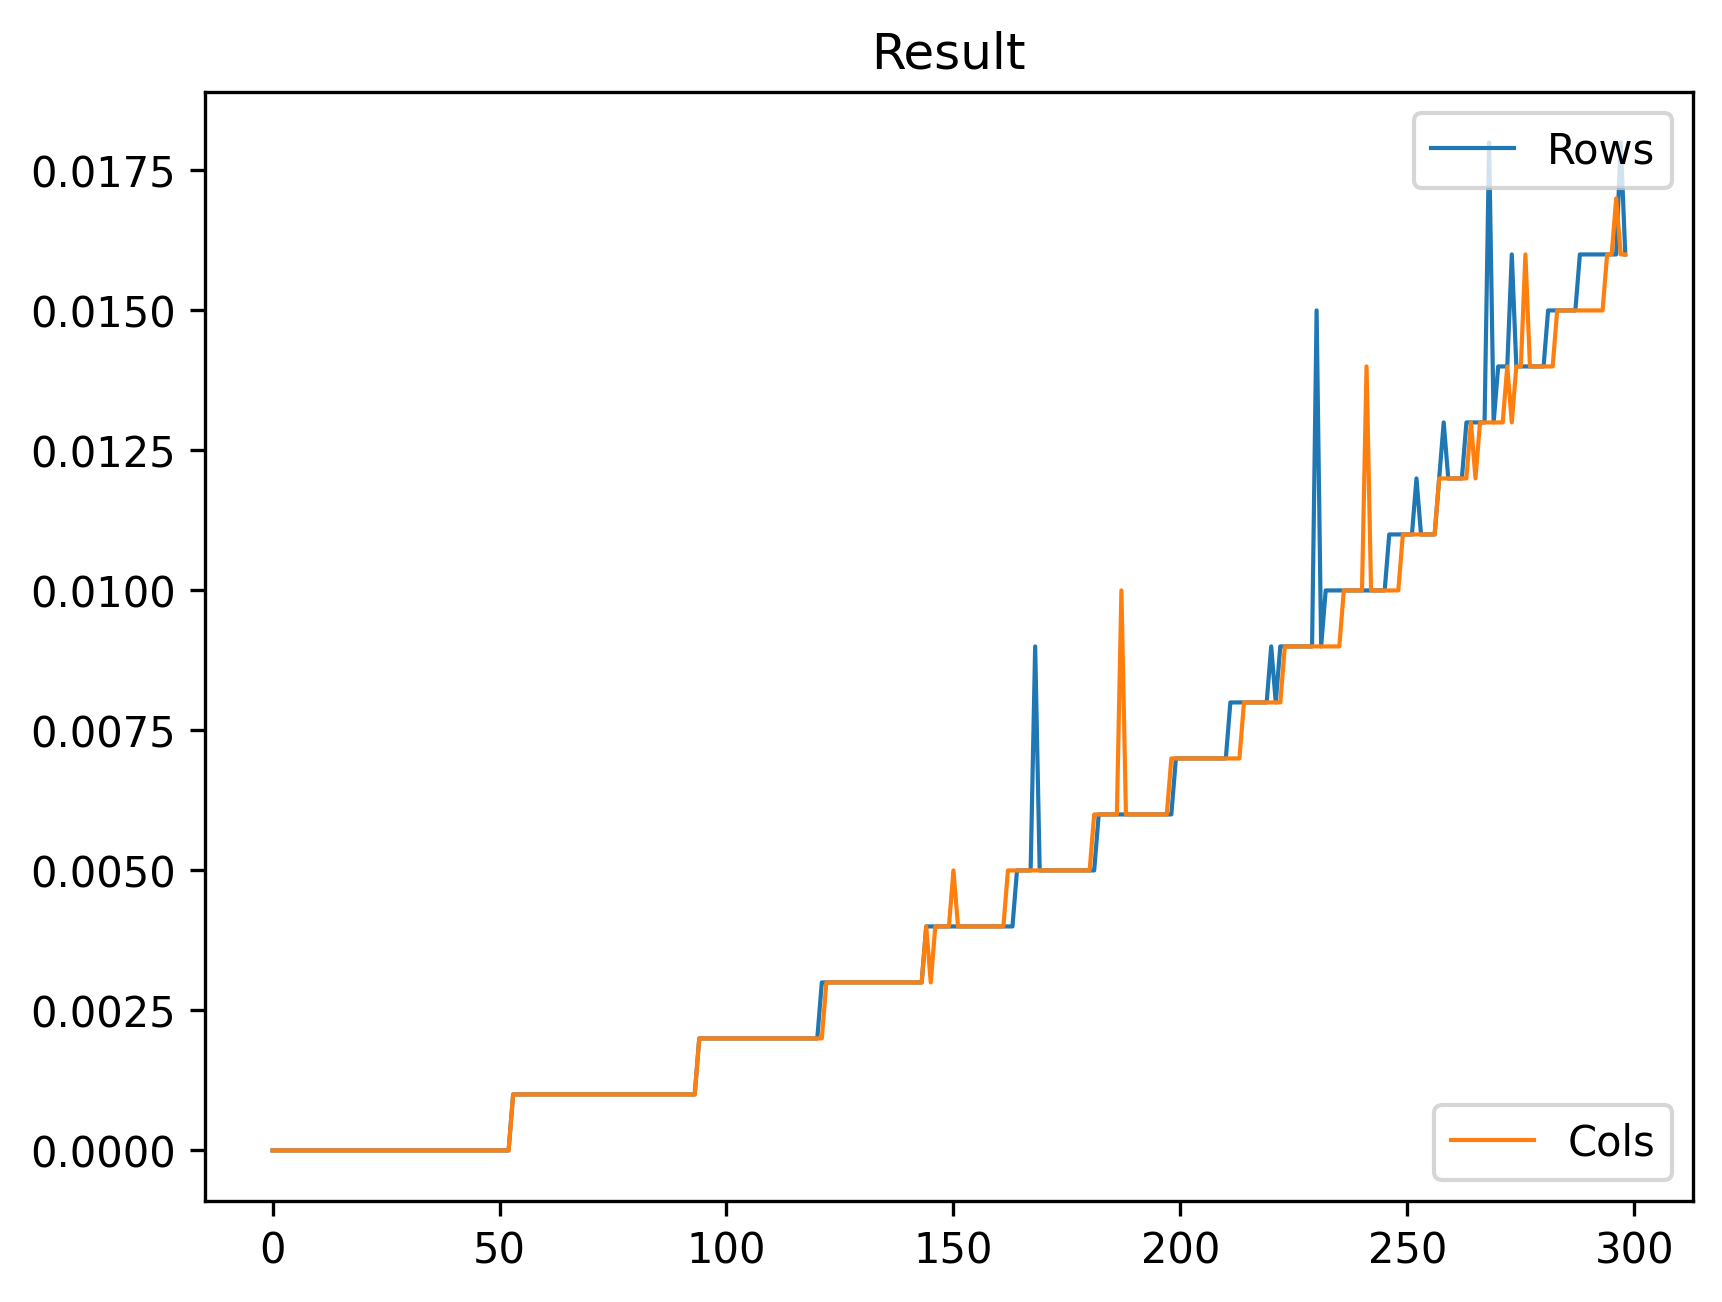
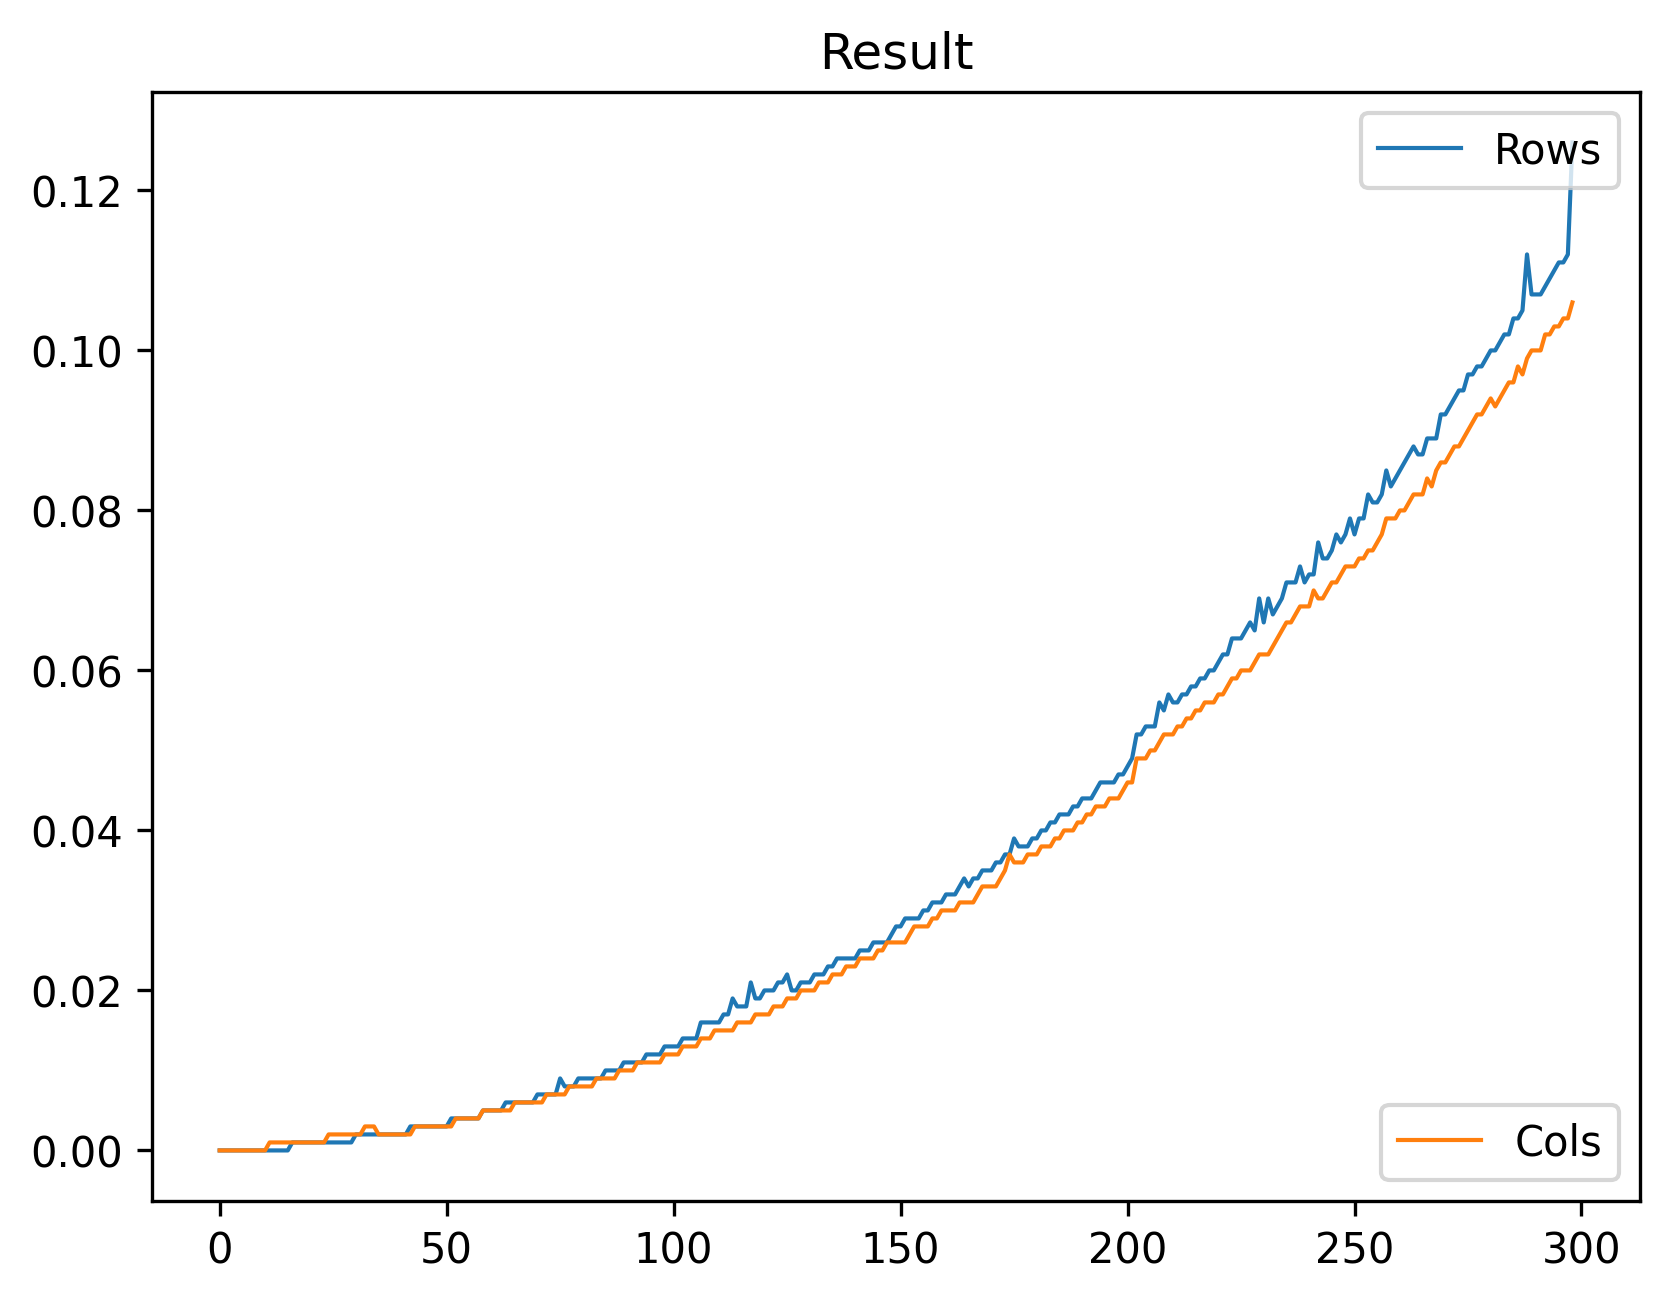
To Merge

diff --git a/add_two_matrix.py b/add_two_matrix.py
@@ -103,6 +103,6 @@ def make_plt(Range=100, steps=1, is_fresh=True):
 
 
 if __name__ == "__main__":
-    Range = 500
+    Range = 300
     Steps = 1
     make_plt(Range, Steps)
